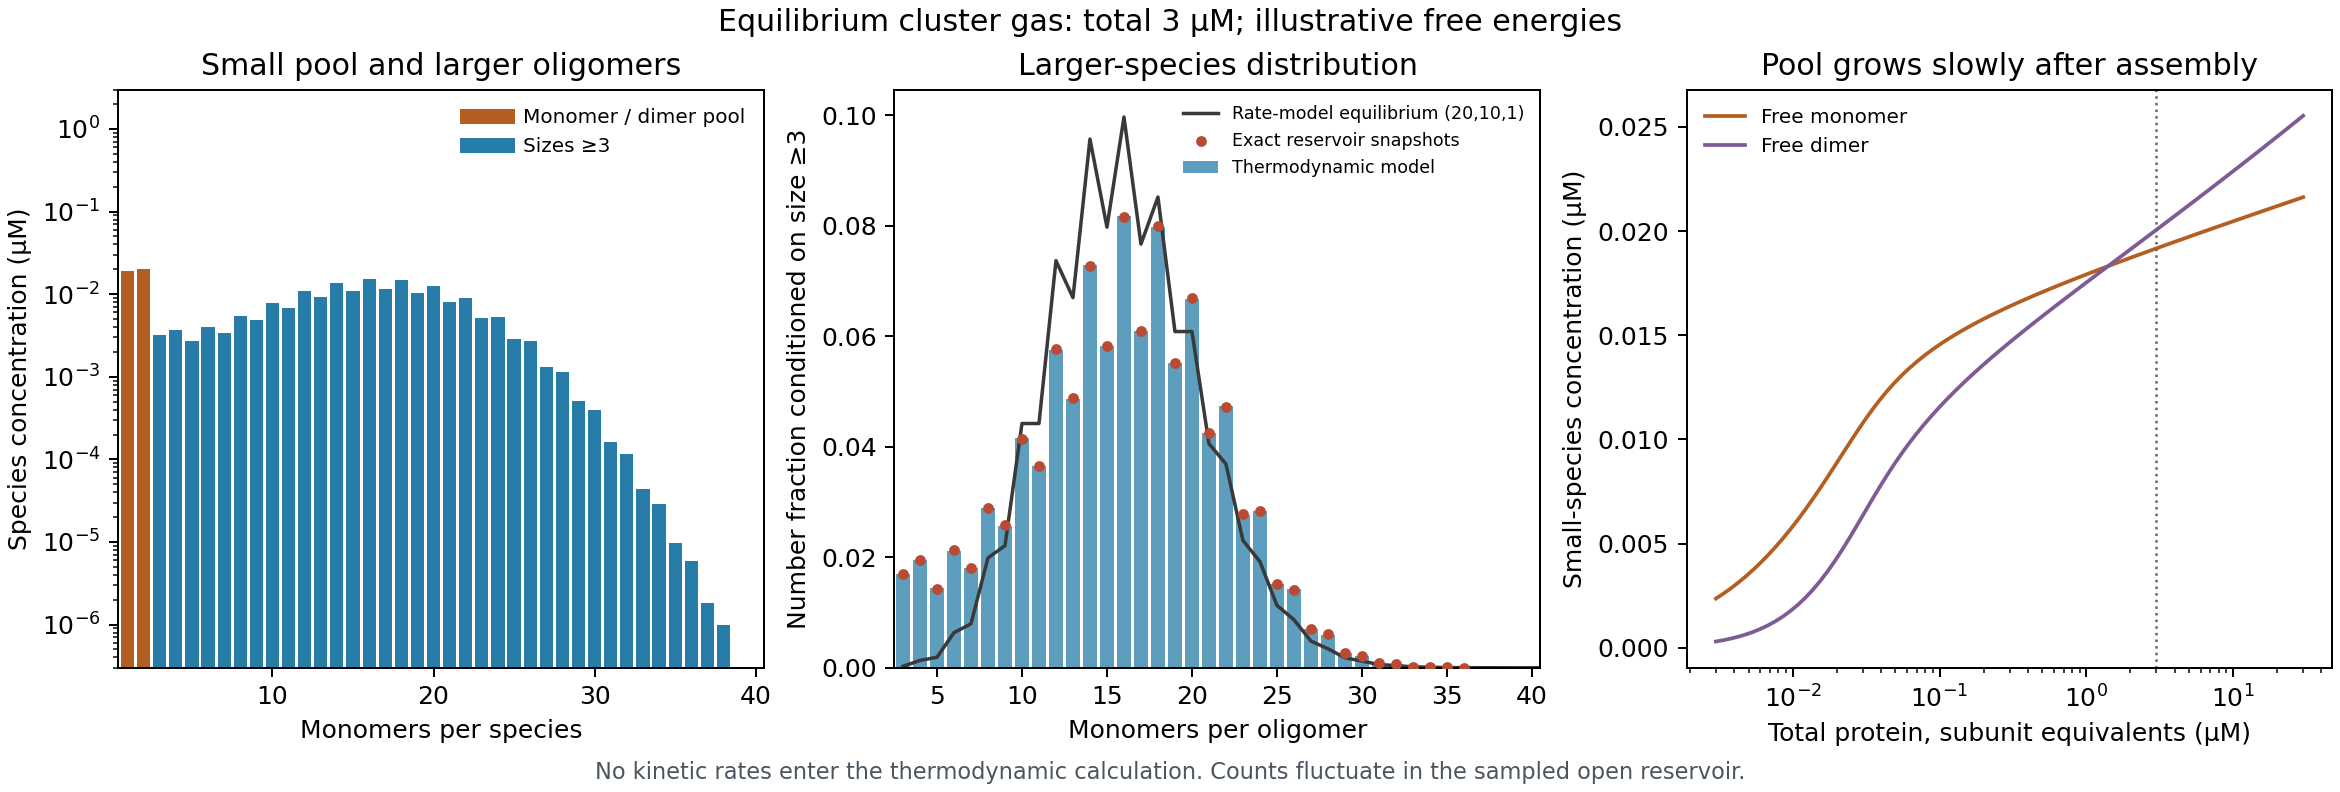
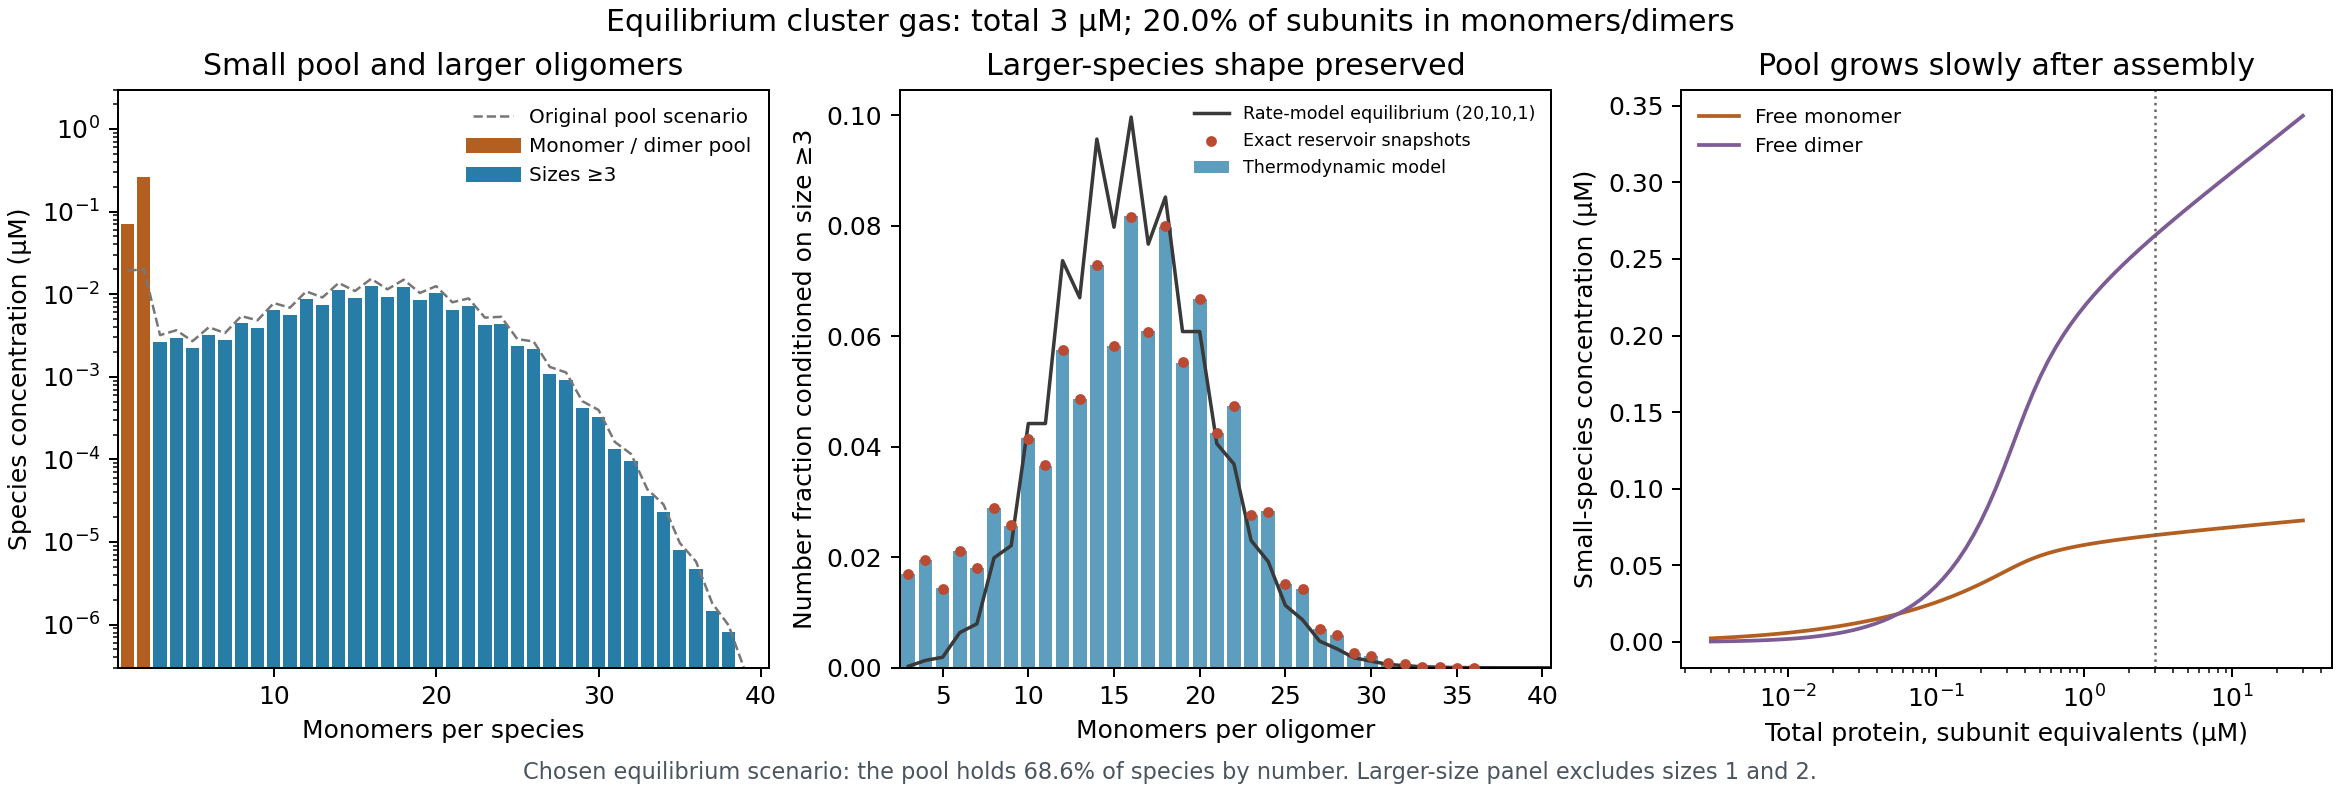
Enlarge the equilibrium monomer dimer pool while preserving oligomer shape

diff --git a/single/statistical_mechanics/simulate_reservoir.py b/single/statistical_mechanics/simulate_reservoir.py
@@ -9,7 +9,9 @@ import matplotlib.pyplot as plt
 import numpy as np
 
 from single.oligomer_distribution import oligomer_distribution
-from .reservoir_thermodynamics import GlobularModel, globular_equilibrium, sample_reservoir
+from .reservoir_thermodynamics import (
+    GlobularModel, enrich_reservoir, globular_equilibrium, sample_reservoir,
+)
 
 
 def main() -> None:
@@ -21,11 +23,20 @@ def main() -> None:
     parser.add_argument("--packing", type=float, default=0.18, help="Superlinear packing coefficient in kBT")
     parser.add_argument("--dimer", type=float, default=4.0, help="Dimer stabilization in kBT")
     parser.add_argument("--unpaired", type=float, default=0.3, help="Odd-size free-energy penalty in kBT")
+    parser.add_argument("--assembly-offset", type=float, default=0.0, help="Formation offset for sizes >=3 in kBT")
+    parser.add_argument("--pool-subunit-fraction", type=float, default=0.2,
+                        help="Chosen monomer/dimer subunit fraction at --total; 0 uses unadjusted energies")
     parser.add_argument("--output", type=Path, default=Path(__file__).with_name("reservoir_thermodynamics.png"))
     args = parser.parse_args()
 
-    model = GlobularModel(args.bulk, args.surface, args.packing, args.dimer, args.unpaired)
-    result = globular_equilibrium(model, args.total, standard_concentration=args.standard)
+    model = GlobularModel(args.bulk, args.surface, args.packing, args.dimer, args.unpaired,
+                          args.assembly_offset)
+    reference = globular_equilibrium(model, args.total, standard_concentration=args.standard)
+    if args.pool_subunit_fraction != 0:
+        model, result = enrich_reservoir(model, args.total, args.pool_subunit_fraction,
+                                         standard_concentration=args.standard)
+    else:
+        result = reference
     n = result.sizes
     larger = result.conditional_number_fraction(3)
     snapshots = sample_reservoir(result)
@@ -46,6 +57,8 @@ def main() -> None:
               ylim=(max(args.total * 1e-7, 1e-300), args.total),
               xlabel="Monomers per species", ylabel="Species concentration (µM)",
               title="Small pool and larger oligomers")
+    first.plot(reference.sizes, reference.concentration, color="#777777", linewidth=1,
+                linestyle="--", label="Original pool scenario")
     first.plot([], [], color="#b45f22", linewidth=6, label="Monomer / dimer pool")
     first.plot([], [], color="#277da8", linewidth=6, label="Sizes ≥3")
     first.legend(frameon=False, fontsize=8)
@@ -59,7 +72,7 @@ def main() -> None:
                        s=11, color="#ba4b32", label="Exact reservoir snapshots", zorder=3)
     second.set(xlim=(2.5, displayed_size + 0.5), xlabel="Monomers per oligomer",
                ylabel="Number fraction conditioned on size ≥3",
-               title="Larger-species distribution")
+               title="Larger-species shape preserved")
     second.legend(frameon=False, fontsize=7)
 
     totals = np.geomspace(args.total / 1000, args.total * 10, 80)
@@ -74,8 +87,10 @@ def main() -> None:
               title="Pool grows slowly after assembly")
     third.axvline(args.total, color="#666666", linestyle=":", linewidth=1)
     third.legend(frameon=False, fontsize=8, loc="upper left")
-    fig.suptitle(f"Equilibrium cluster gas: total {args.total:g} µM; illustrative free energies")
-    fig.supxlabel("No kinetic rates enter the thermodynamic calculation. Counts fluctuate in the sampled open reservoir.",
+    pool_mass = float(result.subunit_fraction[:2].sum())
+    pool_number = float(result.number_fraction[:2].sum())
+    fig.suptitle(f"Equilibrium cluster gas: total {args.total:g} µM; {100 * pool_mass:.1f}% of subunits in monomers/dimers")
+    fig.supxlabel(f"Chosen equilibrium scenario: the pool holds {100 * pool_number:.1f}% of species by number. Larger-size panel excludes sizes 1 and 2.",
                   fontsize=9, color="#4a5560")
     args.output.parent.mkdir(parents=True, exist_ok=True)
     fig.savefig(args.output, dpi=180)
@@ -84,6 +99,8 @@ def main() -> None:
     print(f"Wrote {args.output}")
     print(f"Mass balance: {np.dot(n, result.concentration):.10g} / {args.total:g} µM")
     print(f"Free monomer {result.concentration[0]:.6g} µM; dimer {result.concentration[1]:.6g} µM")
+    print(f"Pool subunit fraction {pool_mass:.6f}; pool number fraction {pool_number:.6f}")
+    print(f"Adjusted bulk {model.bulk_kbt:.6f} kBT; assembly offset {model.assembly_offset_kbt:.6f} kBT")
     print(f"Higher-size mode {n[np.argmax(larger)]}; mean {n @ larger:.4f}; "
           f"conditional P(n>24) {larger[n > 24].sum():.4f}")
     print(f"Subunit fraction in sizes >=3 {result.subunit_fraction[n >= 3].sum():.4f}")

diff --git a/single/statistical_mechanics/reservoir_thermodynamics.py b/single/statistical_mechanics/reservoir_thermodynamics.py
@@ -8,7 +8,7 @@ All formation free energies share the free-monomer reference and standard state.
 
 from __future__ import annotations
 
-from dataclasses import dataclass
+from dataclasses import dataclass, replace
 from math import isfinite, log
 
 import numpy as np
@@ -26,6 +26,8 @@ class GlobularModel:
     A separate dimer free energy and an odd-size cost are native-protein
     extensions. The odd cost describes an unpaired-site penalty on the smooth
     envelope; it is not a dissociation rate or a count of inferred interfaces.
+    ``assembly_offset_kbt`` is a constant standard formation free-energy cost
+    for each cluster of size >=3, not a kinetic activation barrier.
     """
 
     bulk_kbt: float = 8.0
@@ -33,12 +35,15 @@ class GlobularModel:
     packing_kbt: float = 0.18
     dimer_binding_kbt: float = 4.0
     unpaired_penalty_kbt: float = 0.3
+    assembly_offset_kbt: float = 0.0
 
     def __post_init__(self) -> None:
         values = (self.bulk_kbt, self.surface_kbt, self.packing_kbt,
                   self.dimer_binding_kbt, self.unpaired_penalty_kbt)
         if not all(isfinite(x) and x >= 0 for x in values) or self.packing_kbt == 0:
             raise ValueError("coefficients must be finite and nonnegative; packing must be positive")
+        if not isfinite(self.assembly_offset_kbt):
+            raise ValueError("assembly_offset_kbt must be finite")
 
     def free_energies(self, max_size: int = 120) -> np.ndarray:
         """Dimensionless standard formation energies Delta G_n^0/kBT; F_1=0."""
@@ -49,6 +54,7 @@ class GlobularModel:
                   + self.surface_kbt * (sizes ** (2 / 3) - 1)
                   + self.packing_kbt * (sizes ** (5 / 3) - 1))
         energy[(sizes >= 3) & (sizes % 2 == 1)] += self.unpaired_penalty_kbt
+        energy[sizes >= 3] += self.assembly_offset_kbt
         energy[0] = 0.0
         energy[1] = -self.dimer_binding_kbt
         return energy
@@ -162,6 +168,41 @@ def globular_equilibrium(model: GlobularModel, total_concentration: float, *,
         if max_size == size_limit:
             raise ValueError("size range has not converged; increase size_limit")
         max_size = min(2 * max_size, size_limit)
+
+
+def enrich_reservoir(model: GlobularModel, total_concentration: float,
+                     pool_subunit_fraction: float, *,
+                     standard_concentration: float = 1.0) -> tuple[GlobularModel, Equilibrium]:
+    """Choose a larger 1/2-mer pool while preserving P(n | n>=3) at one total.
+
+    This is a constructed thermodynamic scenario, not a fit or a prediction of
+    a measured reservoir fraction. Dimer binding, surface, packing, and parity
+    terms stay fixed. Bulk association and a size-independent formation cost
+    for the n>=3 family change. The new free energies are then fixed when
+    predicting other concentrations; the target is imposed only at this total.
+
+    Let delta be the change in log monomer activity and A the required common
+    scale of larger-species concentrations. Choosing b'=b-delta and offset'
+    =offset+delta-log(A) gives c_n'=A*c_n for every n>=3. The small-species
+    mass balance fixes delta with c_2 proportional to c_1**2.
+    """
+    if not isfinite(pool_subunit_fraction) or not 0 < pool_subunit_fraction < 1:
+        raise ValueError("pool_subunit_fraction must lie strictly between zero and one")
+    reference = globular_equilibrium(model, total_concentration,
+                                     standard_concentration=standard_concentration)
+    previous_pool = float(reference.subunit_fraction[:2].sum())
+    if pool_subunit_fraction <= previous_pool:
+        raise ValueError(f"enrichment target must exceed the original pool fraction {previous_pool:.6g}")
+    small_pool = closed_equilibrium(model.free_energies(2),
+                                    pool_subunit_fraction * total_concentration,
+                                    standard_concentration=standard_concentration)
+    delta = small_pool.log_activity - reference.log_activity
+    log_scale = log(1 - pool_subunit_fraction) - log(1 - previous_pool)
+    adjusted = replace(model, bulk_kbt=model.bulk_kbt - delta,
+                       assembly_offset_kbt=model.assembly_offset_kbt + delta - log_scale)
+    result = globular_equilibrium(adjusted, total_concentration,
+                                  standard_concentration=standard_concentration)
+    return adjusted, result
 
 
 def sample_reservoir(result: Equilibrium, *, standard_state_particles: float = 10000,

diff --git a/single/statistical_mechanics/test_reservoir_thermodynamics.py b/single/statistical_mechanics/test_reservoir_thermodynamics.py
@@ -6,7 +6,7 @@ import numpy as np
 
 from .reservoir_thermodynamics import (
     GlobularModel, closed_equilibrium, equilibrium_at_activity,
-    globular_equilibrium, sample_reservoir,
+    enrich_reservoir, globular_equilibrium, sample_reservoir,
 )
 
 
@@ -70,6 +70,24 @@ class ReservoirTests(unittest.TestCase):
         self.assertGreater(total_counts.std(), 0)  # Open reservoir, not fixed N.
         self.assertLess(abs(total_counts.mean() - 3 * scale), 6 * total_counts.std() / np.sqrt(snapshots))
 
+    def test_enlarged_pool_preserves_larger_shape_and_mass_balance(self):
+        model = GlobularModel()
+        old = globular_equilibrium(model, 3)
+        adjusted, new = enrich_reservoir(model, 3, 0.2)
+        self.assertAlmostEqual(new.subunit_fraction[:2].sum(), 0.2, places=11)
+        self.assertAlmostEqual(new.sizes @ new.concentration, 3, places=11)
+        self.assertGreater(new.concentration[0], old.concentration[0])
+        self.assertGreater(new.concentration[1], old.concentration[1])
+        np.testing.assert_allclose(new.conditional_number_fraction(), old.conditional_number_fraction(),
+                                   rtol=1e-11, atol=1e-14)
+        self.assertAlmostEqual(new.concentration[1] / old.concentration[1],
+                               (new.concentration[0] / old.concentration[0])**2, places=10)
+        self.assertEqual(adjusted.dimer_binding_kbt, model.dimer_binding_kbt)
+        # Once chosen, energies stay fixed at other totals; a concentration
+        # series does not impose the same 20% pool at each point.
+        other = globular_equilibrium(adjusted, 0.3)
+        self.assertGreater(abs(other.subunit_fraction[:2].sum() - 0.2), 0.1)
+
     def test_invalid_inputs(self):
         for total in (0, -1, float("nan"), float("inf")):
             with self.assertRaises(ValueError):
@@ -79,6 +97,9 @@ class ReservoirTests(unittest.TestCase):
                 closed_equilibrium(energy, 1)
         with self.assertRaises(ValueError):
             GlobularModel(packing_kbt=0)
+        for target in (0, 1, float("nan"), 0.001):
+            with self.assertRaises(ValueError):
+                enrich_reservoir(GlobularModel(), 3, target)
 
 
 if __name__ == "__main__":

diff --git a/single/statistical_mechanics/reservoir_readme.md b/single/statistical_mechanics/reservoir_readme.md
@@ -33,12 +33,15 @@ All energies refer to free monomers and a common standard concentration c0:
 F_1 = 0
 F_2 = -d
 F_n = -b*(n-1) + s*(n^(2/3)-1) + h*(n^(5/3)-1)
-      + u*[n is odd]                                      for n >=3
+      + u*[n is odd] + a                                  for n >=3
 ```
 
 `F_n = Delta G_n^0/kBT`; `b` is a bulk attraction coefficient, `s` a surface
 coefficient, and `h>0` a packing/connectivity coefficient. The explicit dimer
 stabilization `d` and unpaired penalty `u` extend the smooth cluster model.
+`a` is a constant formation free-energy offset for the larger-oligomer family,
+such as a hypothesized conformational cost per oligomer. It is an equilibrium
+state cost, not an activation barrier. Its physical value remains unknown.
 None is obtained from the kinetic rates. Surface and packing terms oppose
 unbounded growth and can create a small-species population plus a finite-size
 larger-species peak. Increasing total concentration still changes that peak.
@@ -79,12 +82,14 @@ energies changes the physical model. Under c0' = r*c0, the conversion is
 
 ```python
 from single.statistical_mechanics.reservoir_thermodynamics import (
-    GlobularModel, globular_equilibrium, sample_reservoir,
+    GlobularModel, enrich_reservoir, globular_equilibrium, sample_reservoir,
 )
 
 model = GlobularModel(bulk_kbt=8, surface_kbt=8, packing_kbt=0.18,
                       dimer_binding_kbt=4, unpaired_penalty_kbt=0.3)
-r = globular_equilibrium(model, total_concentration=3, standard_concentration=1)
+adjusted_model, r = enrich_reservoir(model, total_concentration=3,
+                                    pool_subunit_fraction=0.2,
+                                    standard_concentration=1)
 # With concentrations interpreted in µM, total is 3 µM of subunit equivalents.
 concentrations = r.concentration
 number_fractions = r.number_fraction
@@ -109,24 +114,62 @@ particle trajectory, or physical exchange kinetics.
 Change parameters or write another figure with CLI flags:
 
 ```bash
-python -m single.statistical_mechanics.simulate_reservoir --total 0.1 --output outputs/reservoir_low.png
-python -m single.statistical_mechanics.simulate_reservoir --packing 0.25 --output outputs/reservoir_packing.png
+python -m single.statistical_mechanics.simulate_reservoir --pool-subunit-fraction 0.3 --output outputs/reservoir_enriched.png
+python -m single.statistical_mechanics.simulate_reservoir --pool-subunit-fraction 0 --total 0.1 --output outputs/reservoir_low.png
 ```
+
+## Enlarging the monomer/dimer pool
+
+The default CLI chooses 20% of subunits in sizes 1 and 2 at the selected total
+concentration, while preserving the original conditional distribution for sizes
+at least three. The target must exceed the original pool fraction and be below
+one. `--pool-subunit-fraction 0` runs the unadjusted model.
+
+The helper solves the monomer/dimer mass balance for the selected pool mass,
+then weakens bulk association and adds a formation offset for sizes >=3. Let
+`delta` be the increase in log monomer activity and `A` the required common
+scale of larger-species concentrations. Choosing
+
+```text
+b_new = b_old - delta
+a_new = a_old + delta - log(A)
+```
+
+gives `c_n,new = A*c_n,old` for every n>=3. This leaves their **conditional**
+number fractions unchanged at the selected total. Total protein is conserved;
+the larger species become less abundant in absolute concentration. This is a
+constructed scenario using two free-energy adjustments, not a uniquely inferred
+mechanism. The dimer binding energy is unchanged, so `c_2` scales as `c_1^2`.
+
+The resulting energies are fixed for the plotted concentration series. The
+chosen 20% pool is not imposed again at each concentration, and the larger-size
+distribution generally changes as concentration changes.
 
 ## Illustrative result and verification
 
-The default uses c0=1 µM and C_total=3 µM. Free monomer is 0.01917 µM and dimer
-0.02006 µM; 98.02% of subunits are in sizes at least three. The full number
-distribution has its mode at the dimer. **Conditioned on sizes at least three**,
+At c0=1 µM and C_total=3 µM:
+
+| Quantity | Original | Enlarged pool (default plot) |
+| --- | ---: | ---: |
+| Free monomer | 0.01917 µM | 0.06969 µM |
+| Free dimer | 0.02006 µM | 0.26516 µM |
+| Monomer/dimer subunit fraction | 1.98% | 20.00% |
+| Monomer/dimer number fraction | 17.30% | 68.63% |
+| Bulk coefficient b | 8.0000 kBT | 6.7091 kBT |
+| Larger-family offset a | 0 kBT | 1.4941 kBT |
+
+The full number distribution has its mode at the dimer.
+**Conditioned on sizes at least three**, both scenarios have the same curve:
 the mode is 16, the mean is 15.6842, and the fraction above 24 is 4.93%.
 The figure conditions the kinetic comparison on the same support. Its total
 variation distance from the (20,10,1) curve is 0.1337; the shapes differ despite
 their shared mode. Matching the mode does not establish experimental agreement.
 The coefficients were selected to illustrate a finite-size peak, not fitted.
 
-Seven new tests check the analytic monomer/dimer limit, mass conservation,
+Eight reservoir tests check the analytic monomer/dimer limit, mass conservation,
 shared chemical potential, standard-state conversion, support convergence,
-concentration-dependent pooling, and reservoir count statistics. Run the full
+concentration-dependent pooling, reservoir count statistics, and preservation of
+the larger-species shape when enriching the small pool. Run the full
 suite with `python -m unittest discover -v`.
 
 A useful next test is a concentration series with measured small-species and

diff --git a/docs/audit.md b/docs/audit.md
@@ -9,7 +9,10 @@ count sampling. Its bulk/surface/packing family is inspired by the Knowles group
 2018 globular model; its coefficients are illustrative. It does not establish
 geometry-dependent free energies or replicate the paper's spatial Monte Carlo.
 Seven additional conservation, standard-state, convergence, and sampling checks
-bring the current suite to 28 tests. The original audit below remains a record
+bring the suite to 28 tests. A further pool-enrichment check brings the current
+suite to 29 tests: the new chosen 20% monomer/dimer subunit pool preserves the
+conditional larger-species shape and mass balance at the reference total.
+The original audit below remains a record
 of the preceding cleanup.
 
 ## Conclusions

diff --git a/single/statistical_mechanics/readme.md b/single/statistical_mechanics/readme.md
@@ -13,6 +13,9 @@ Its coefficients are illustrative. No kinetic rate enters that calculation.
 Run `python -m single.statistical_mechanics.simulate_reservoir` for one summary
 figure and a concentration series. The documentation distinguishes the exact
 reservoir count sampling from spatial particle simulation.
+The current figure chooses 20% of subunits in the monomer/dimer pool by adjusting
+two formation free-energy terms, preserving the reference larger-size curve at
+3 µM. This is a controlled scenario; the reservoir fraction is not measured.
 
 ## Exact equilibrium weights
 
